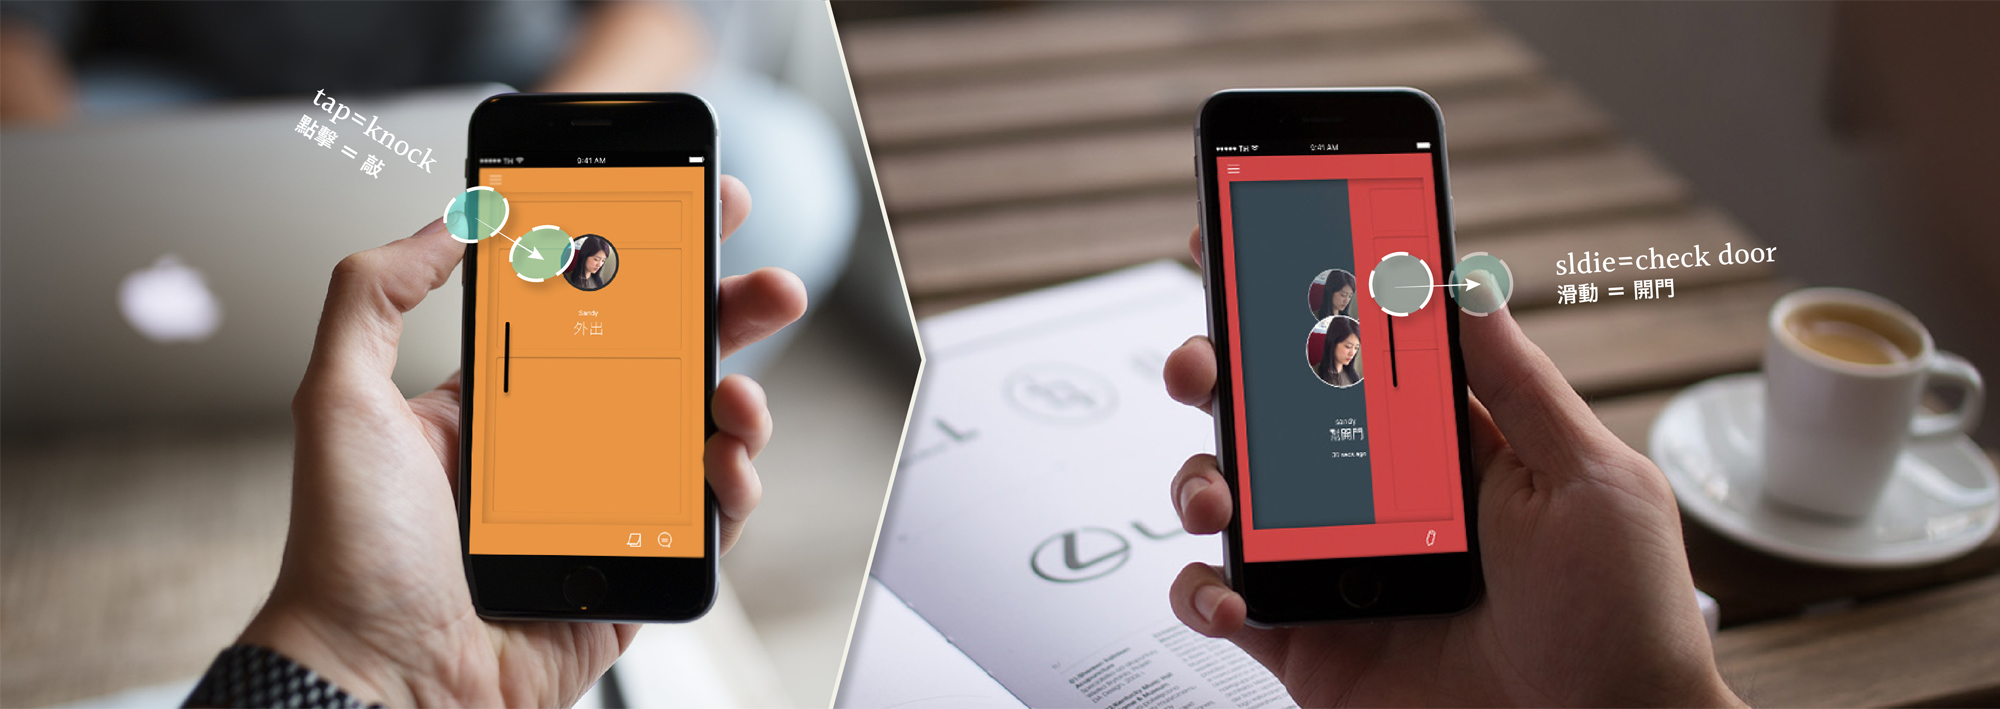
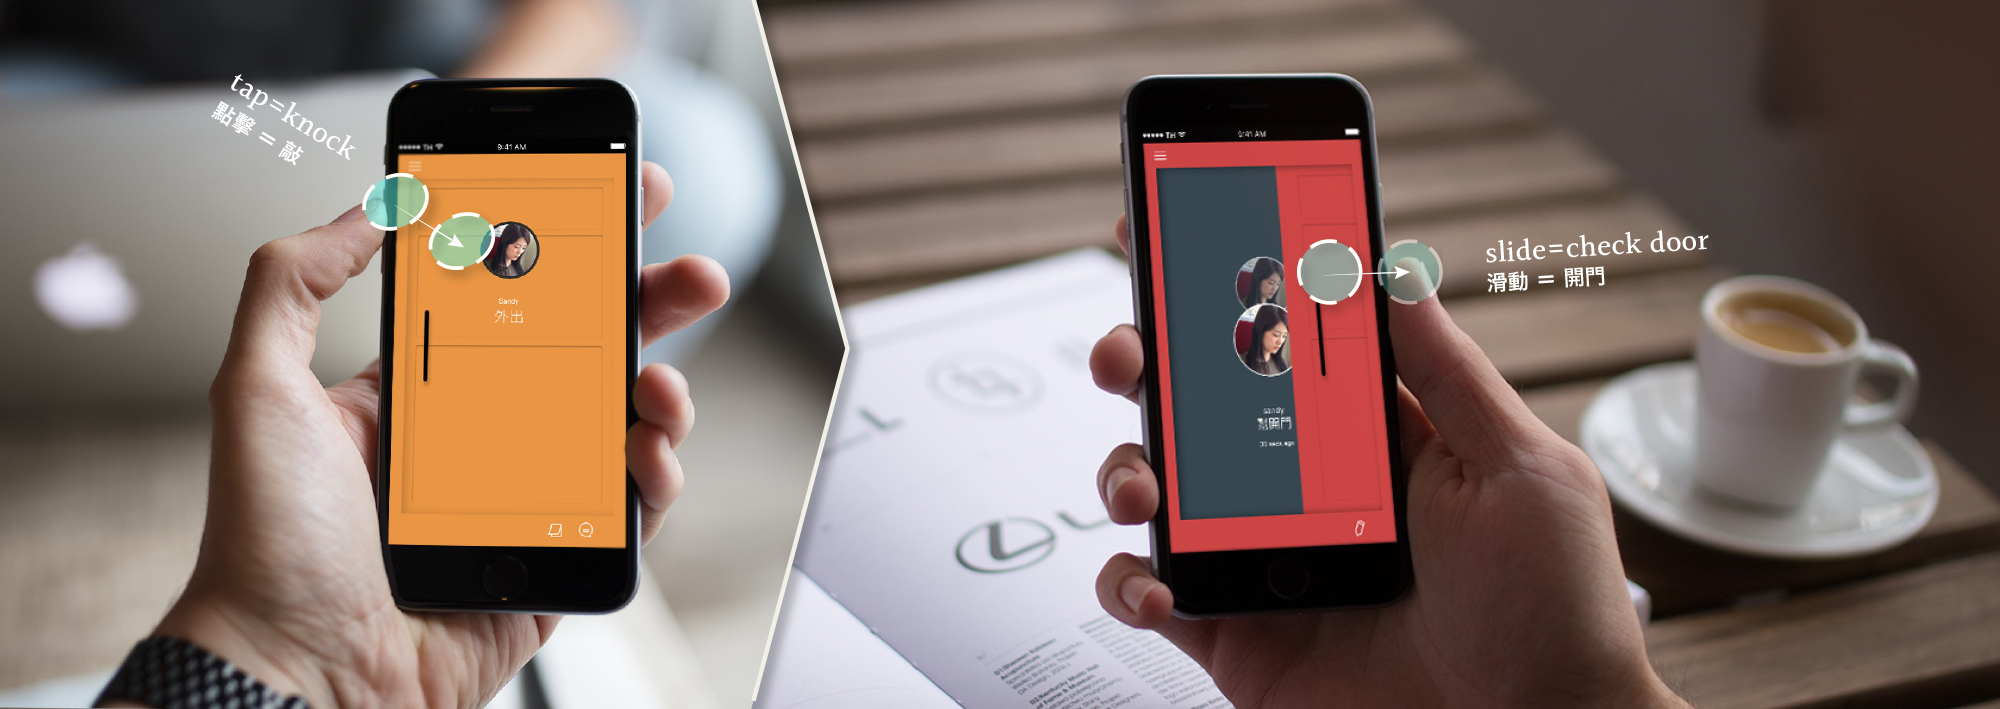
gogoogo

diff --git a/index.html b/index.html
@@ -40,27 +40,27 @@
         <div class="why">
           <div class="coverimg"><img class="cover" src="img/cover2.jpg"></div>
           <span class="prewording">如果敲門可以超越空間、銜接更多情境時，會發生什麼事？</span>
-          <span class="prewording2">What would happen if knocking doors could surpass space and connect more scenarios.</span>
+          <span class="prewording2">If knocking can portal around dimensions, connect between scenes, what would happen?</span>
         <span class="whywording1">About knockkk</span>
         <span class="whyparaph">
           knockkk 敲敲，我們相信在這個世代，人能選擇互動的新方式、擁有新的距離情感。而敲門，是我們互動中最頻繁、最親近的互動之一。包含了未知的串連、情緒與腳步的轉換、甚至純粹的等待。記得你一天中敲過幾次門嗎？開了幾次門呢？如果這件事情可以超越空間、銜接更多情境時，會發生什麼事？<br><br>
           </span>
           <span class="whywording">How it works</span>
           <span class="whyparaph">
-         點擊 ＝ 敲門、滑動 = 開門。 當點擊時，對方的手機會「震動」。對方知道有人敲門後，可以「滑開」查看！以單純的互動最快速的連接彼此。
+         點擊 ＝ 敲門、滑動 = 開門。 當點擊時，對方的手機會「震動」。對方知道有人敲門後，可以「滑開」查看！以最簡潔的互動快速地，連接彼此。
           <br><br>
           </span>
-        <span class="parallax1"></span>
+        <span class="parallax1">tap = knock 點擊＝敲門；<br>slide=check door 滑開＝開門</span>
        
         <span class="whywording">How to play</span>
         <span class="whyparaph">
-        當敲門可以超越空間後，就可以在各個空間下敲室友的門！<br><br>
+        當敲門可以超越空間後，就可以在各個空間下敲室友的門！可以選擇「便利貼」張貼於室友的門上，或是貼一張「買垃圾袋」到家門上！「文字敲門」可以在敲門時附帶上訊息，可以是「幫忙開門」「起床」「要幫你買晚餐嗎」「打球」「在家嗎」<br><br>
         </span>
         
          <div class="parallax2"><img class="post" src="img/post.png"><img class="knockword" src="img/knockword.png"></div>
          <span class="whywording">Connect with city</span>
          <span class="whyparaph">
-         每天的22:00~22:10我們會隨機發送三扇門，將與城市的另一端聯通！
+         每天的22:00~22:10我們會隨機發送三扇門，將與城市的另一端聯通！在十分鐘內，可以「拜訪」陌生門，也可以「被拜訪」！十分鐘後門就會消失，對話也會跟著消失。當人數越多時，我們越能發放給你在地、鄰里間的家門！
          <br>
           </span>
          <div class="parallax3"><img class="period" src="img/period.png"></div>
@@ -72,7 +72,7 @@
           </span>
         <span class="whywording">Our story</span>
         <span class="whyparaph">
-         每天的22:00~22:10我們會隨機發送三扇門，將與城市的另一端聯通！
+         我們分別來自台中、樹林、溫哥華的四個男生，收養了工作室下面的兩隻流浪貓，讓他們定時療癒我們。目前住在玖樓的溫州、泰順公寓，期許免除兵役前，努力的在為智慧化、人性與科技之間鑽研，我們的第一個孩子是Fineighbor，企圖把合住生活透過舒適的方式處理訊息、累積訊息，進而轉化人的互動。沒有放棄Fineighbor喔！在某次會議時，誕生了這個knockkk的idea，預計用兩週把第二個小孩knockkk生出來！是設計師人生第二次寫的網頁，第一次跟另一位完全合作生小孩。是全團隊第一次用另一個角度努力。希望你們在用的時候，也會悄悄愛上敲敲。
          <br>
           </span>
         </div>
@@ -94,7 +94,7 @@
     </section>
     
     <footer>
-      <img class="concept" src="img/concept1.jpg">
+      
       
           <div class="space">
           

diff --git a/main.css b/main.css
@@ -289,16 +289,21 @@
 
 .parallax1 { 
     /* The image used */
-    background-image: url("img/imageonly-10-02.jpg");
+    background-image: url("img/usebg.jpg");
 
     /* Set a specific height */
-    height: 600px; 
+    height: 500px; 
     
     /* Create the parallax scrolling effect */
     background-attachment: fixed;
     background-position: center;
     background-repeat: no-repeat;
     background-size: 100%;
+    font-family: 'Scope One', serif;
+    font-size: 1.2em;
+    letter-spacing: 2px;
+    padding: 12%;
+    line-height: 1.3;
 }
 
 .parallax2 { 
@@ -363,6 +368,7 @@
   align-self: center;
   left: 40%;
 }
+
 
 
 
